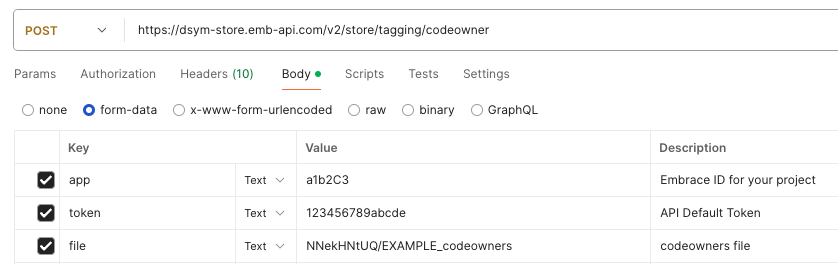
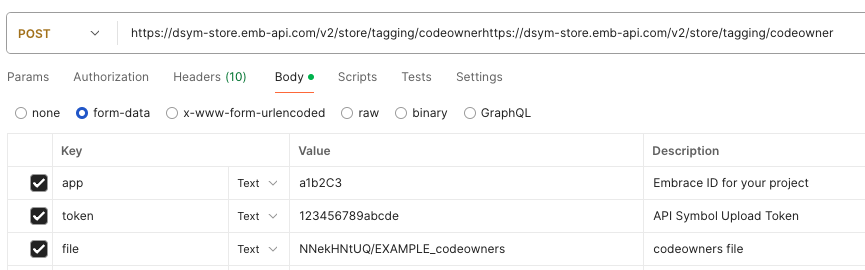
Addressed feedback

diff --git a/docs/product/tagging.md b/docs/product/tagging.md
@@ -24,7 +24,7 @@ You can also see, create, and modify rules in the Settings view.
 
 ### with a Codeowners file
 
-POST your file to `https://dsym-store.emb-api.com/v2/store/tagging/codeowner`.  Include your `app`, `token` (the token used to upload symbols) , and `file`.
+POST your file to `https://dsym-store.emb-api.com/v2/store/tagging/codeowner`.  Include your `app`, `token` (the symbol upload token used to upload symbols files) , and `file`.
 
 <img src={require('@site/static/images/Postman-Codeowners example.png').default} alt="screenshot of Codeowners upload" />
 
